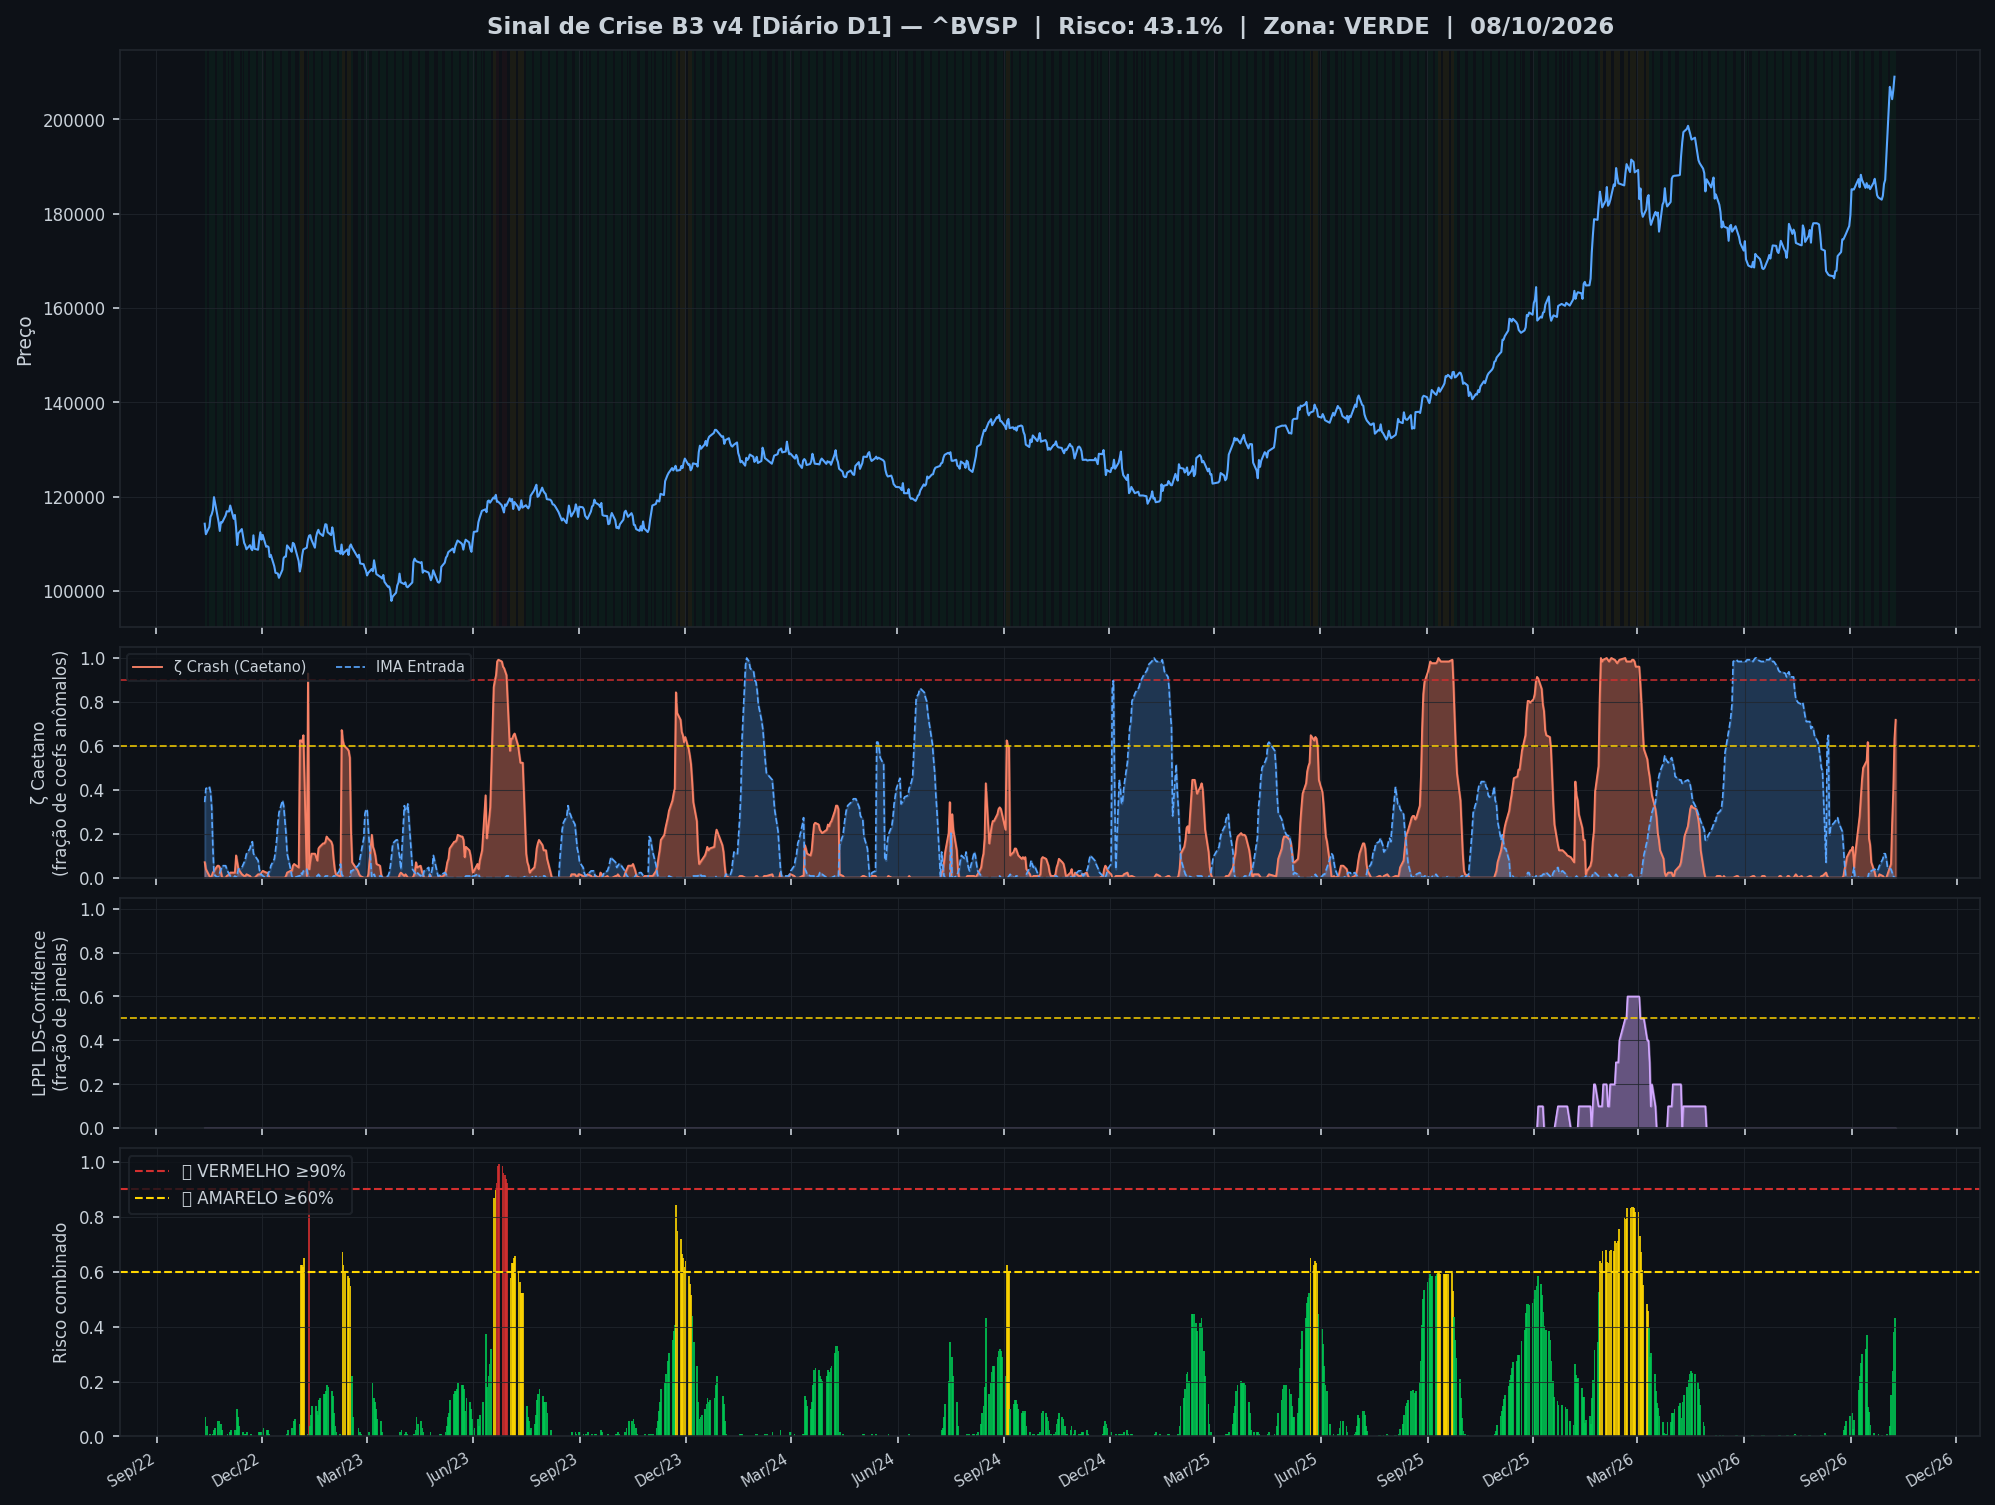
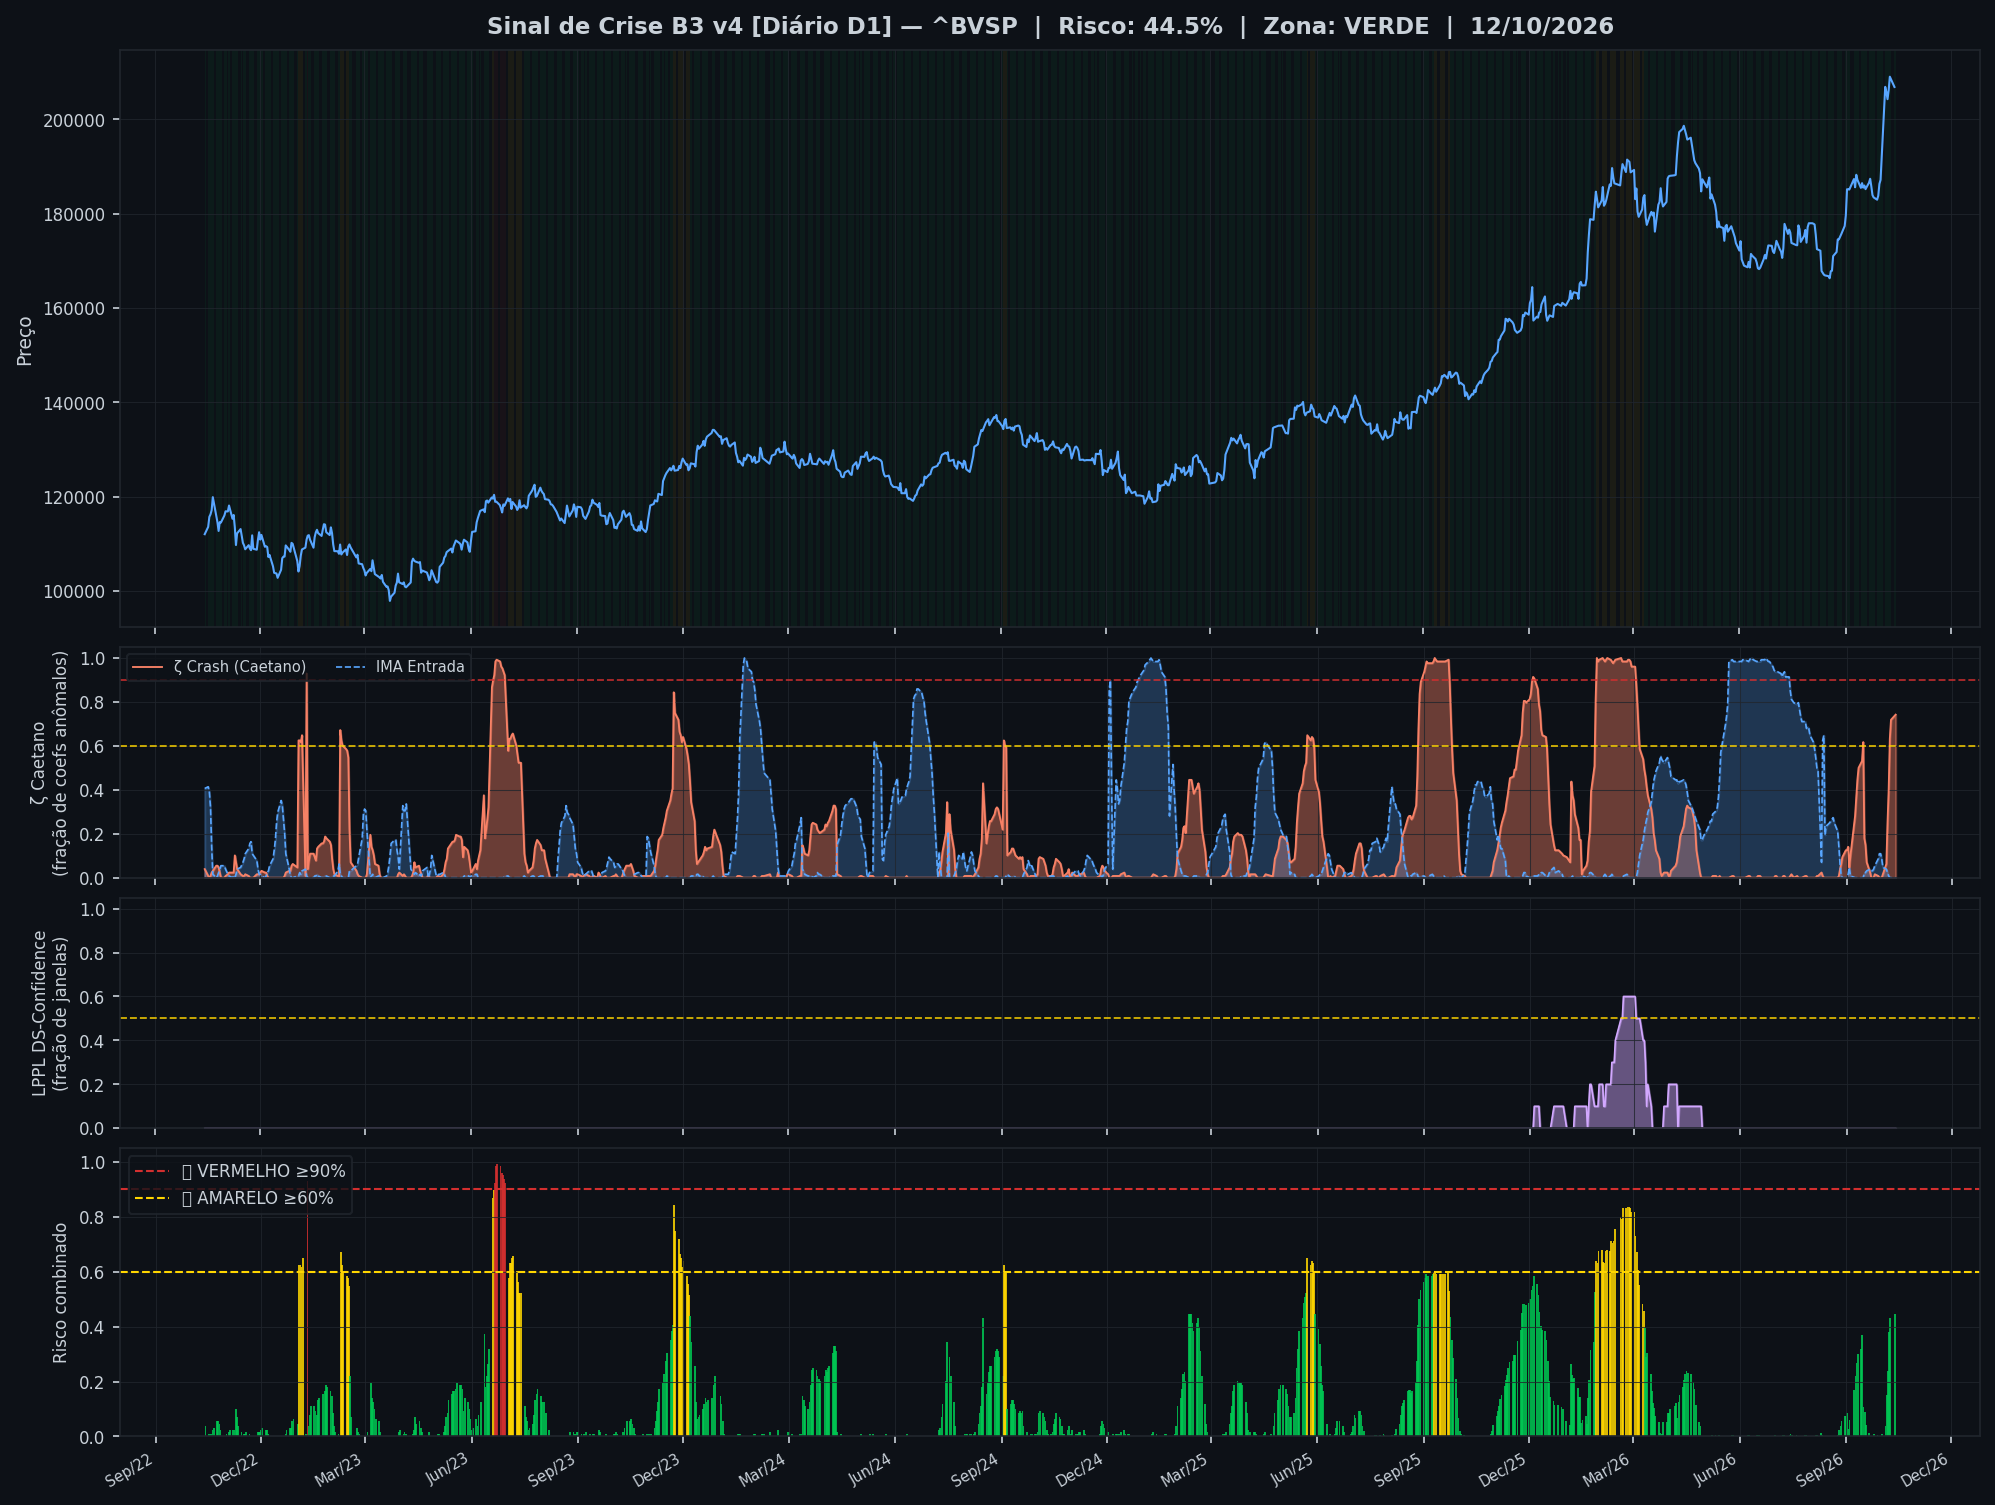
🤖 Auto: Sinal 13/10/2026 19:00

diff --git a/content/diario/2026-10-12.md b/content/diario/2026-10-12.md
@@ -1,0 +1,102 @@
+---
+title: "🟢 Diário 12/10/2026 — VERDE"
+date: 2026-10-13
+tags: [diario]
+---
+
+> [!success] 🟢 **VERDE** — Risco 45% · ▲ +1 p.p. vs leitura anterior
+> `█████████░░░░░░░░░░░`
+> Mercado sem sinais relevantes de estresse.
+
+
+| Indicador | Valor |
+|---|---|
+| 🔴 ζ Crash — severidade da queda em curso | **74%** |
+| 🔵 ζ Entrada — estrutura de fundo | 0% |
+| 🫧 LPPL DS-Confidence | 0% |
+| 📊 Ibovespa | 206.888 pts |
+
+![Gráfico do sinal](../graficos/sinal_diario.png)
+
+## Últimos 30 pregões
+
+| Data | Zona | Risco | IMA Crash | Entrada | LPPL |
+|---|---|---|---|---|---|
+| 2026-10-12 21:00 | 🟢 VERDE | **45%** | 74% | 0% | 0% |
+| 2026-10-08 21:00 | 🟢 VERDE | **43%** | 72% | 0% | 0% |
+| 2026-10-07 21:00 | 🟢 VERDE | **38%** | 63% | 0% | 0% |
+| 2026-10-06 21:00 | 🟢 VERDE | **24%** | 40% | 1% | 0% |
+| 2026-10-05 21:00 | 🟢 VERDE | **15%** | 25% | 2% | 0% |
+| 2026-10-04 21:00 | 🟢 VERDE | **4%** | 6% | 4% | 0% |
+| 2026-10-01 21:00 | 🟢 VERDE | **1%** | 2% | 5% | 0% |
+| 2026-09-30 21:00 | 🟢 VERDE | **0%** | 0% | 9% | 0% |
+| 2026-09-29 21:00 | 🟢 VERDE | **0%** | 0% | 11% | 0% |
+| 2026-09-28 21:00 | 🟢 VERDE | **0%** | 0% | 11% | 0% |
+| 2026-09-27 21:00 | 🟢 VERDE | **0%** | 1% | 9% | 0% |
+| 2026-09-24 21:00 | 🟢 VERDE | **1%** | 2% | 5% | 0% |
+| 2026-09-23 21:00 | 🟢 VERDE | **0%** | 0% | 4% | 0% |
+| 2026-09-22 21:00 | 🟢 VERDE | **0%** | 0% | 3% | 0% |
+| 2026-09-21 21:00 | 🟢 VERDE | **0%** | 0% | 3% | 0% |
+| 2026-09-20 21:00 | 🟢 VERDE | **1%** | 2% | 4% | 0% |
+| 2026-09-17 21:00 | 🟢 VERDE | **4%** | 7% | 3% | 0% |
+| 2026-09-16 21:00 | 🟢 VERDE | **9%** | 15% | 2% | 0% |
+| 2026-09-15 21:00 | 🟢 VERDE | **11%** | 18% | 2% | 0% |
+| 2026-09-14 21:00 | 🟢 VERDE | **37%** | 62% | 0% | 0% |
+| 2026-09-13 21:00 | 🟢 VERDE | **32%** | 53% | 0% | 0% |
+| 2026-09-10 21:00 | 🟢 VERDE | **30%** | 50% | 0% | 0% |
+| 2026-09-09 21:00 | 🟢 VERDE | **27%** | 45% | 0% | 0% |
+| 2026-09-08 21:00 | 🟢 VERDE | **22%** | 37% | 0% | 0% |
+| 2026-09-07 21:00 | 🟢 VERDE | **17%** | 28% | 0% | 0% |
+| 2026-09-03 21:00 | 🟢 VERDE | **6%** | 10% | 1% | 0% |
+| 2026-09-02 21:00 | 🟢 VERDE | **3%** | 5% | 5% | 0% |
+| 2026-09-01 21:00 | 🟢 VERDE | **8%** | 14% | 2% | 0% |
+| 2026-08-31 21:00 | 🟢 VERDE | **8%** | 12% | 0% | 0% |
+| 2026-08-30 21:00 | 🟢 VERDE | **8%** | 12% | 0% | 0% |
+
+## Monitor Multi-Ativo
+
+**0% dos ativos em tensão** (0🔴 0🟡) — quanto mais ativos disparam juntos, mais confiável o sinal.
+
+| Zona | Ativo | Setor | IMA Crash | IMA Entrada |
+|---|---|---|---|---|
+| 🟢 | **ITAUUNIBANCO** | Financeiro | 0.0% | 18.8% |
+| 🟢 | **VALE** | Mineração | 0.0% | 18.8% |
+| 🟢 | **PETROBRAS** | Petróleo | 0.0% | 18.8% |
+| 🟢 | **PETROBRAS** | Petróleo | 0.0% | 18.8% |
+| 🟢 | **AXIA ENERGIA** | Energia | 0.0% | 18.8% |
+| 🟢 | **SABESP** | Saneamento | 0.0% | 18.8% |
+| 🟢 | **B3** | Financeiro | 0.0% | 18.8% |
+| 🟢 | **BRADESCO** | Financeiro | 0.0% | 18.8% |
+| 🟢 | **ITAUSA** | Financeiro | 0.0% | 18.8% |
+| 🟢 | **BTGP BANCO** | Financeiro | 0.0% | 18.8% |
+| 🟢 | **WEG** | Industrial | 0.0% | 18.8% |
+| 🟢 | **BRASIL** | Financeiro | 0.0% | 18.8% |
+| 🟢 | **AMBEV S/A** | Consumo | 0.0% | 18.8% |
+| 🟢 | **EMBRAER** | Outros | 0.0% | 18.8% |
+| 🟢 | **EQUATORIAL** | Energia | 0.0% | 18.8% |
+| 🟢 | **ENEVA** | Energia | 0.0% | 18.8% |
+| 🟢 | **LOCALIZA** | Aluguel | 0.0% | 18.8% |
+| 🟢 | **COPEL** | Energia | 0.0% | 18.8% |
+| 🟢 | **PRIO** | Petróleo | 0.0% | 18.8% |
+| 🟢 | **REDE D OR** | Saúde | 0.0% | 18.8% |
+| 🟢 | **VIBRA** | Energia | 0.0% | 18.8% |
+| 🟢 | **ULTRAPAR** | Outros | 0.0% | 18.8% |
+| 🟢 | **GERDAU** | Siderurgia | 0.0% | 18.8% |
+| 🟢 | **USD/BRL** | Câmbio | 0.0% | 97.7% |
+
+![Monitor multi-ativo](../graficos/multi_diario.png)
+
+*Página atualizada em 13/10/2026 19:00 BRT (leitura da barra de 2026-10-12 BRT).*
+
+> [!info]- Como interpretar (clique para expandir)
+> - **ζ Crash**: fração dos coeficientes wavelet acima do corte (Caetano & Yoneyama 2009). Escala absoluta: ζ=0,90 = 90% dos coeficientes anômalos — historicamente, quedas com ζ≥0,90 foram mais fundas e mais longas. **Mede a severidade do movimento em curso, não prevê o início da queda.**
+> - **ζ Entrada**: coeficientes negativos além do corte — estrutura de fundo, possível região de compra.
+> - **LPPL DS-Confidence**: fração de janelas (60–504 pregões) em que o modelo de bolha de Sornette produz um ajuste válido. 30% já é relevante; acima de 50% é forte evidência de estrutura de bolha.
+> - **Zonas com histerese**: o sinal só muda de zona ao cruzar o limiar de entrada, e só volta ao cruzar o de saída — evita flip-flop diário.
+
+
+---
+*Sinal de Crise B3 v4 · IMA Wavelet ([Caetano & Yoneyama, Physica-A 2007](https://doi.org/10.1016/j.physa.2007.03.054)) + LPPL DS-Confidence (Sornette, ETH-Zurich) · [Metodologia](metodologia) · [Histórico](historico)*
+
+> [!quote]- Aviso
+> Estudo acadêmico. Não constitui recomendação de investimento.

diff --git a/content/index.md b/content/index.md
@@ -8,19 +8,19 @@ tags: [home]
 
 Monitoramento diário e intraday do Ibovespa — **IMA Wavelet** (Prof. Marco Antonio Leonel Caetano, ITA/INSPER) + **LPPL DS-Confidence** (Prof. Didier Sornette, ETH-Zurich).
 
-*Última atualização: 13/10/2026 17:30 BRT · ^BVSP · Intraday 15min · v4*
+*Última atualização: 13/10/2026 19:00 BRT · ^BVSP · Diário D1 · v4*
 
-> [!success] 🟢 **VERDE** — Risco 0% · ＝ +0 p.p. vs leitura anterior
-> `░░░░░░░░░░░░░░░░░░░░`
+> [!success] 🟢 **VERDE** — Risco 45% · ▲ +1 p.p. vs leitura anterior
+> `█████████░░░░░░░░░░░`
 > Mercado sem sinais relevantes de estresse.
 
 
 | Indicador | Valor |
 |---|---|
-| 🔴 ζ Crash — severidade da queda em curso | **0%** |
-| 🔵 ζ Entrada — estrutura de fundo | 34% |
+| 🔴 ζ Crash — severidade da queda em curso | **74%** |
+| 🔵 ζ Entrada — estrutura de fundo | 0% |
 | 🫧 LPPL DS-Confidence | 0% |
-| 📊 Ibovespa | 206.804 pts |
+| 📊 Ibovespa | 206.888 pts |
 
 **Multi-ativo:** 0% em tensão (0🔴 0🟡 de 24 ativos)
 
@@ -32,8 +32,13 @@ Monitoramento diário e intraday do Ibovespa — **IMA Wavelet** (Prof. Marco An
 
 | Data | Zona | Risco | IMA | LPPL |
 |---|---|---|---|---|
-| [13 Oct 2026](diario/2026-10-13) | 🟢 VERDE | **0%** | 0% | 0% |
-| [09 Oct 2026](diario/2026-10-09) | 🟢 VERDE | **0%** | 0% | 0% |
+| [12 Oct 2026](diario/2026-10-12) | 🟢 VERDE | **45%** | 74% | 0% |
+| [08 Oct 2026](diario/2026-10-08) | 🟢 VERDE | **43%** | 72% | 0% |
+| [07 Oct 2026](diario/2026-10-07) | 🟢 VERDE | **38%** | 63% | 0% |
+| [06 Oct 2026](diario/2026-10-06) | 🟢 VERDE | **24%** | 40% | 0% |
+| [05 Oct 2026](diario/2026-10-05) | 🟢 VERDE | **15%** | 25% | 0% |
+| [04 Oct 2026](diario/2026-10-04) | 🟢 VERDE | **4%** | 6% | 0% |
+| [01 Oct 2026](diario/2026-10-01) | 🟢 VERDE | **1%** | 2% | 0% |
 
 ## Navegação
 

diff --git a/content/historico.md b/content/historico.md
@@ -7,6 +7,7 @@ tags: [historico]
 
 | Data | Modo | Zona | Risco | IMA | LPPL |
 |---|---|---|---|---|---|
+| 2026-10-12 | diario | 🟢 VERDE | 45% | 74% | 0% |
 | 2026-10-13 16:45 | intraday | 🟢 VERDE | 0% | 0% | 0% |
 | 2026-10-13 16:30 | intraday | 🟢 VERDE | 0% | 0% | 0% |
 | 2026-10-13 16:15 | intraday | 🟢 VERDE | 0% | 0% | 0% |
